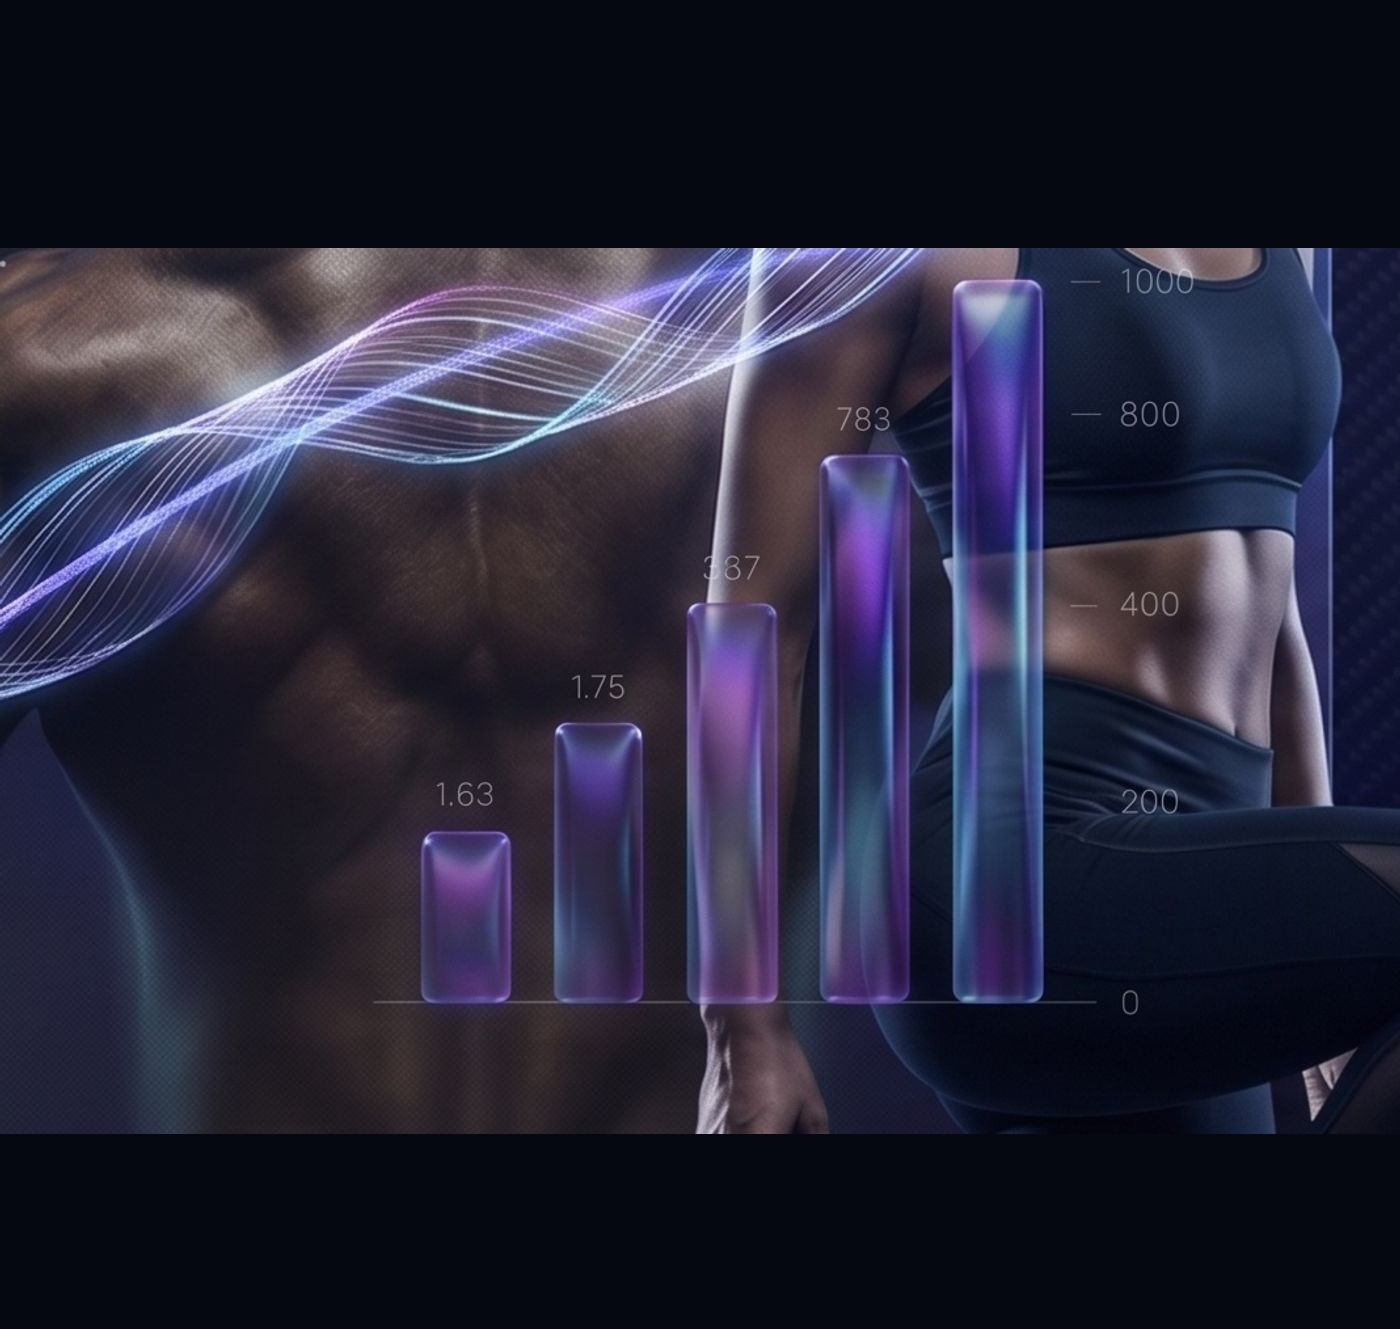
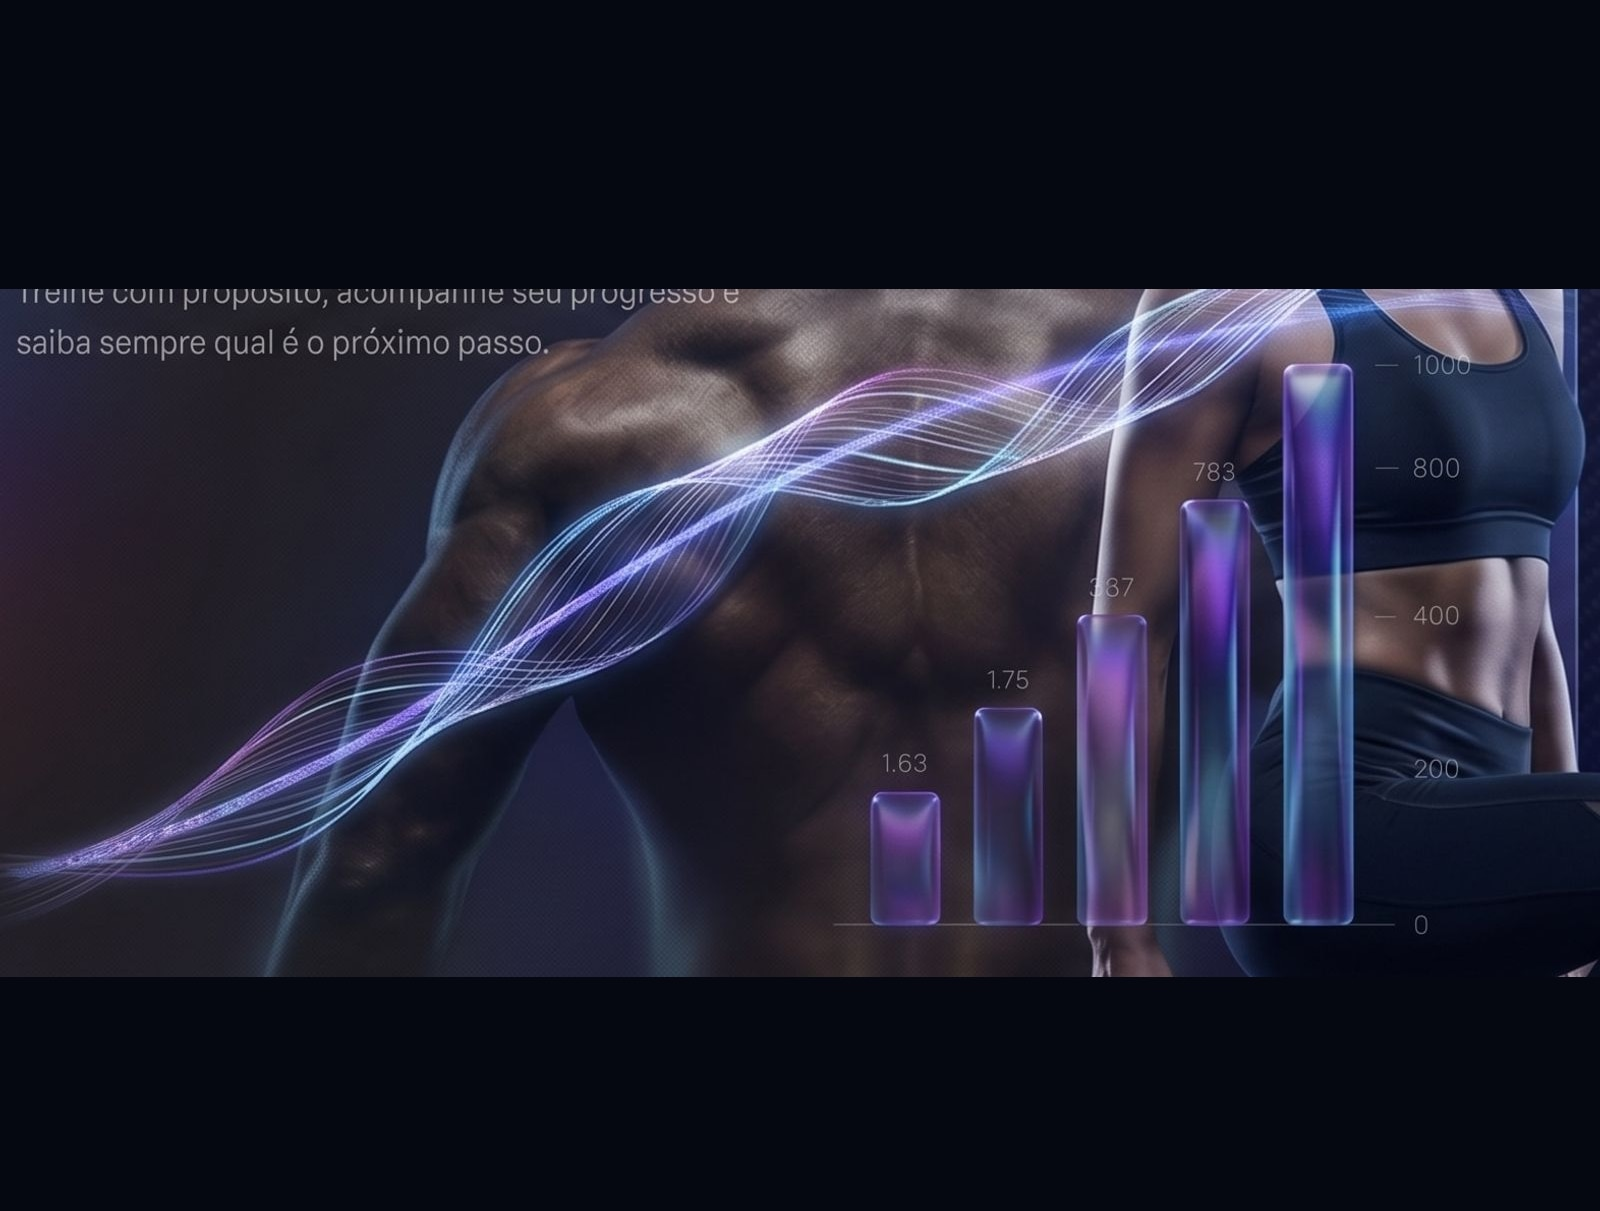
ajuste

diff --git a/src/components/auth/AuthLayout.jsx b/src/components/auth/AuthLayout.jsx
@@ -70,70 +70,72 @@ export default function AuthLayout({
       <div className="auth-split">
         <div className="auth-split__main">
           <aside className="auth-split__visual" aria-label="EvoluaFit">
-            <img
-              className="auth-split__cover"
-              src="/branding/login-characters.jpg"
-              alt=""
-              decoding="async"
-              fetchPriority="high"
-            />
+            <div className="auth-split__stage">
+              <img
+                className="auth-split__cover"
+                src="/branding/login-cover-premium.jpg"
+                alt=""
+                decoding="async"
+                fetchPriority="high"
+              />
 
-            <div className="auth-split__scrim" aria-hidden="true" />
+              <div className="auth-split__scrim" aria-hidden="true" />
 
-            <div className="auth-split__top">
-              <div className="auth-split__brand">
-                <EvoluaFitLogo size="medium" showWordmark />
+              <div className="auth-split__top">
+                <div className="auth-split__brand">
+                  <EvoluaFitLogo size="medium" showWordmark className="auth-split__logo" />
+                </div>
+                <div className="auth-split__hero">
+                  <h2>
+                    Evolua além do <span className="auth-gradient-text">treino.</span>
+                  </h2>
+                  <p>
+                    Treine com propósito, acompanhe seu progresso e saiba sempre qual é o
+                    próximo passo.
+                  </p>
+                </div>
               </div>
-              <div className="auth-split__hero">
-                <h2>
-                  Evolua além do <span className="auth-gradient-text">treino.</span>
-                </h2>
-                <p>
-                  Treine com propósito, acompanhe seu progresso e saiba sempre qual é o
-                  próximo passo.
-                </p>
-              </div>
-            </div>
 
-            <ul className="auth-split__journey" aria-label="Jornada EvoluaFit">
-              <li>
-                <span className="auth-split__journey-icon" aria-hidden="true">
-                  <IconDumbbell />
-                </span>
-                <div>
-                  <strong>TREINE</strong>
-                  <span>Planos inteligentes e personalizados</span>
-                </div>
-              </li>
-              <li className="auth-split__journey-sep" aria-hidden="true" />
-              <li>
-                <span className="auth-split__journey-icon" aria-hidden="true">
-                  <IconTrend />
-                </span>
-                <div>
-                  <strong>ACOMPANHE</strong>
-                  <span>Monitore sua evolução em tempo real</span>
-                </div>
-              </li>
-              <li className="auth-split__journey-sep" aria-hidden="true" />
-              <li>
-                <span className="auth-split__journey-icon" aria-hidden="true">
-                  <IconStar />
-                </span>
-                <div>
-                  <strong>EVOLUA</strong>
-                  <span>Supere limites todos os dias</span>
-                </div>
-              </li>
-            </ul>
+              <ul className="auth-split__journey" aria-label="Jornada EvoluaFit">
+                <li>
+                  <span className="auth-split__journey-icon" aria-hidden="true">
+                    <IconDumbbell />
+                  </span>
+                  <div>
+                    <strong>TREINE</strong>
+                    <span>Planos inteligentes e personalizados</span>
+                  </div>
+                </li>
+                <li className="auth-split__journey-sep" aria-hidden="true" />
+                <li>
+                  <span className="auth-split__journey-icon" aria-hidden="true">
+                    <IconTrend />
+                  </span>
+                  <div>
+                    <strong>ACOMPANHE</strong>
+                    <span>Monitore sua evolução em tempo real</span>
+                  </div>
+                </li>
+                <li className="auth-split__journey-sep" aria-hidden="true" />
+                <li>
+                  <span className="auth-split__journey-icon" aria-hidden="true">
+                    <IconStar />
+                  </span>
+                  <div>
+                    <strong>EVOLUA</strong>
+                    <span>Supere limites todos os dias</span>
+                  </div>
+                </li>
+              </ul>
 
-            <div className="auth-split__privacy">
-              <span className="auth-split__privacy-icon" aria-hidden="true">
-                <IconShieldCheck />
-              </span>
-              <div>
-                <strong>Seus dados estão protegidos</strong>
-                <p>Privacidade e segurança em primeiro lugar.</p>
+              <div className="auth-split__privacy">
+                <span className="auth-split__privacy-icon" aria-hidden="true">
+                  <IconShieldCheck />
+                </span>
+                <div>
+                  <strong>Seus dados estão protegidos</strong>
+                  <p>Privacidade e segurança em primeiro lugar.</p>
+                </div>
               </div>
             </div>
           </aside>
